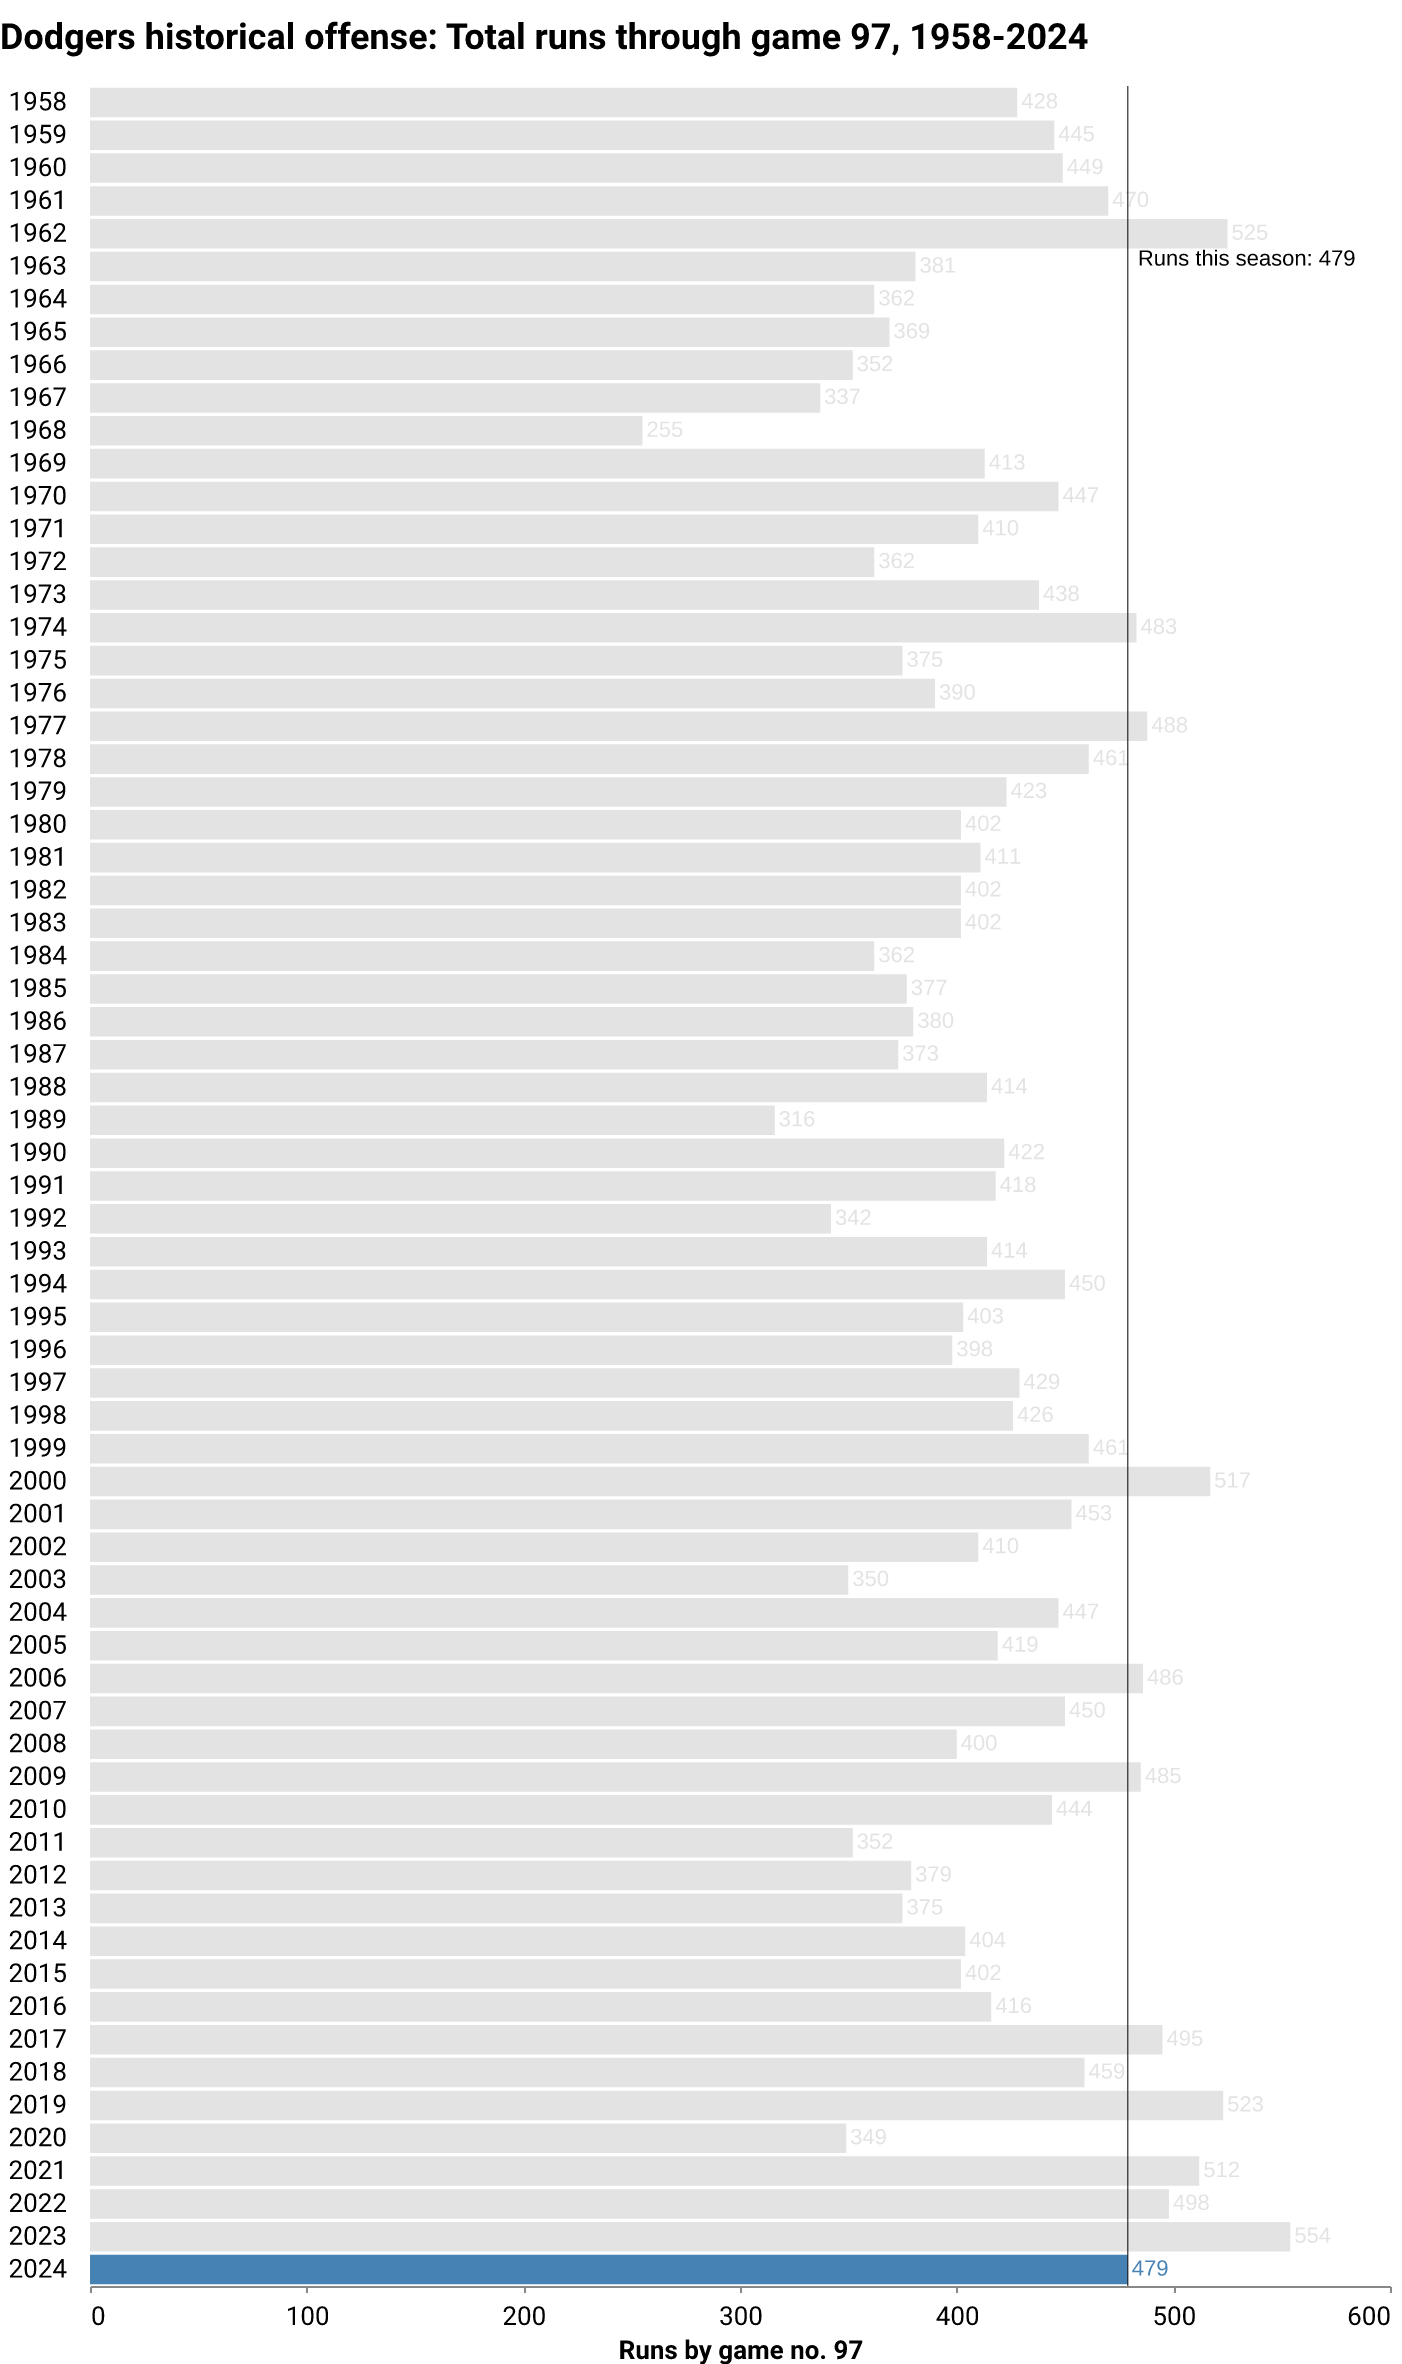
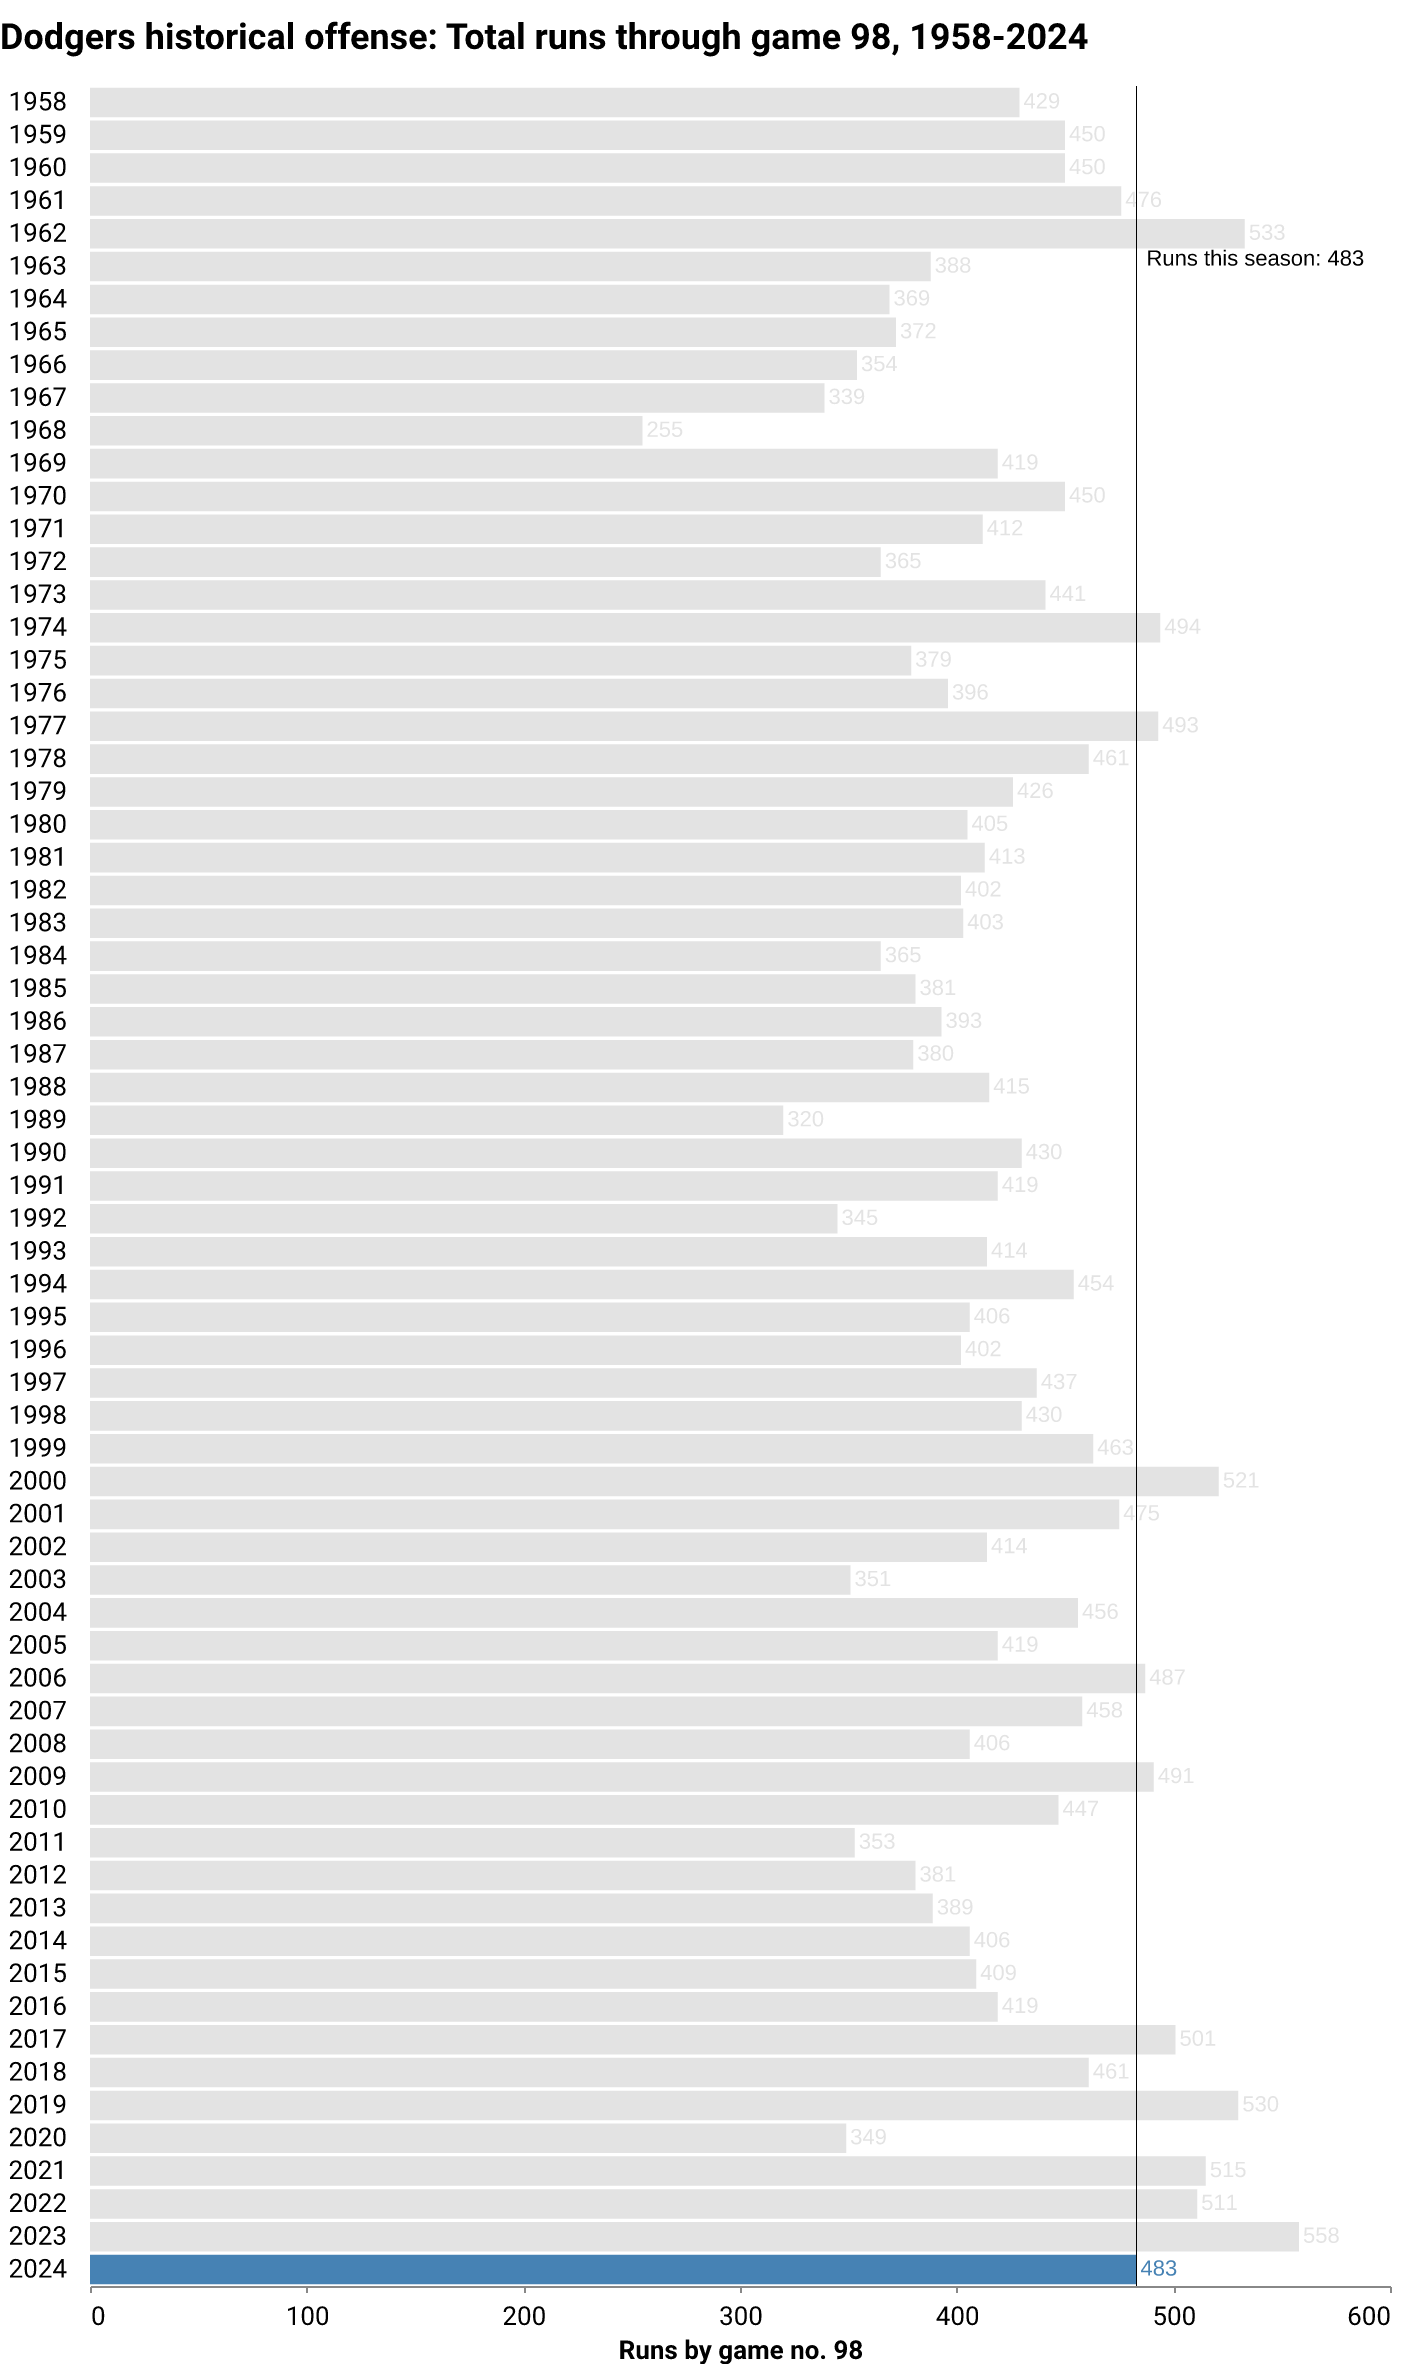
deploy: 163280ebb44116c60a02dd875951da8d54e08d53

diff --git a/index.html b/index.html
@@ -177,14 +177,14 @@
     
     
     
-        <i class="fa-solid fa-arrow-trend-down" style="color: #ef3e42;"></i>
+        <i class="fa-solid fa-arrow-trend-up" style="color: #005a9c;"></i>
     
 </div>
 <h1 class="headline">How are the Dodgers doing?</h1>
 <p class="subhead">
     
     
-    <span class="highlight">LOS ANGELES</span> <span class="updated">(July 20)</span> — After <span class="highlight">97</span> games this season, the Dodgers are in <span class="highlight">1st</span> place in the National League West division. The team has compiled a <span class="highlight">56-41</span> record, winning <span class="highlight">57%</span> of its games so far. The last game was a <span class="highlight">3-4</span> away <span class="highlight">loss</span> against the Detroit Tigers in front of <span class="highlight">35,159</span> fans. They've won <span class="highlight">3 of the last 10</span>.
+    <span class="highlight">LOS ANGELES</span> <span class="updated">(July 20)</span> — After <span class="highlight">98</span> games this season, the Dodgers are in <span class="highlight">1st</span> place in the National League West division. The team has compiled a <span class="highlight">57-41</span> record, winning <span class="highlight">57%</span> of its games so far. The last game was a <span class="highlight">4-1</span> home <span class="highlight">win</span> against the Boston Red Sox in front of <span class="highlight">51,562</span> fans. They've won <span class="highlight">4 of the last 10</span>.
 </p>
 </div>
 
@@ -206,7 +206,7 @@
             Wins
           </div>
           <div class="card-body">
-            <p class="card-text">56</p>
+            <p class="card-text">57</p>
           </div>
           <div class="card-footer text-muted">
         This point last season: 57
@@ -225,7 +225,7 @@
             <p class="card-text">41</p>
           </div>
           <div class="card-footer text-muted">
-        This point last season: 40
+        This point last season: 41
           </div>
         </div>
       </div>
@@ -238,10 +238,10 @@
             Record
           </div>
           <div class="card-body">
-            <p class="card-text">56-41</p>
+            <p class="card-text">57-41</p>
           </div>
           <div class="card-footer text-muted">
-        This point last season: 57-40
+        This point last season: 57-41
           </div>
         </div>
       </div>
@@ -257,7 +257,7 @@
             <p class="card-text">57%</p>
           </div>
           <div class="card-footer text-muted">
-        This point last season: 59%
+        This point last season: 57%
           </div>
         </div>
       </div>
@@ -286,10 +286,10 @@
             Avg. home attendance
           </div>
           <div class="card-body">
-            <p class="card-text">47,769</p>
+            <p class="card-text">47,848</p>
           </div>
           <div class="card-footer text-muted">
-        Home games this season: 47
+        Home games this season: 48
           </div>
         </div>
       </div>
@@ -302,10 +302,10 @@
             Runs
           </div>
           <div class="card-body">
-            <p class="card-text">479</p>
+            <p class="card-text">483</p>
           </div>
           <div class="card-footer text-muted">
-        League rank: 2
+        League rank: 3
           </div>
         </div>
       </div>
@@ -318,10 +318,10 @@
             Runs against
           </div>
           <div class="card-body">
-            <p class="card-text">391</p>
+            <p class="card-text">392</p>
           </div>
           <div class="card-footer text-muted">
-        This point last season: 444
+        This point last season: 452
           </div>
         </div>
       </div>
@@ -334,10 +334,10 @@
             Run differential
           </div>
           <div class="card-body">
-            <p class="card-text">88</p>
+            <p class="card-text">91</p>
           </div>
           <div class="card-footer text-muted">
-        This point last season: 110
+        This point last season: 106
           </div>
         </div>
       </div>
@@ -408,7 +408,7 @@
             Batting average
           </div>
           <div class="card-body">
-            <p class="card-text">.254</p>
+            <p class="card-text">.253</p>
           </div>
           <div class="card-footer text-muted">
         Last decade average: .253
@@ -424,7 +424,7 @@
             Home runs
           </div>
           <div class="card-body">
-            <p class="card-text">129</p>
+            <p class="card-text">130</p>
           </div>
           <div class="card-footer text-muted">
         League rank: 1
@@ -456,7 +456,7 @@
             On-base percentage
           </div>
           <div class="card-body">
-            <p class="card-text">.334</p>
+            <p class="card-text">.333</p>
           </div>
           <div class="card-footer text-muted">
         Last decade average: .332
@@ -488,7 +488,7 @@
             Stolen bases/game
           </div>
           <div class="card-body">
-            <p class="card-text">0.62</p>
+            <p class="card-text">0.61</p>
           </div>
           <div class="card-footer text-muted">
         Rate all last season: 0.65
@@ -598,7 +598,7 @@
             Strikeouts
           </div>
           <div class="card-body">
-            <p class="card-text">817</p>
+            <p class="card-text">826</p>
           </div>
           <div class="card-footer text-muted">
         League rank: 7
@@ -630,7 +630,7 @@
             ERA
           </div>
           <div class="card-body">
-            <p class="card-text">3.76</p>
+            <p class="card-text">3.73</p>
           </div>
           <div class="card-footer text-muted">
         League rank: 3
@@ -708,7 +708,7 @@
     </div>
 </div>
 
-  <p class="dated">Notes: Last updated July 20, 2024, 12:03 AM PT. More <a href="https://github.com/stiles/dodgers/blob/main/README.md">about the data</a>.</p>
+  <p class="dated">Notes: Last updated July 20, 2024, 4:03 AM PT. More <a href="https://github.com/stiles/dodgers/blob/main/README.md">about the data</a>.</p>
   
 </div>
 
